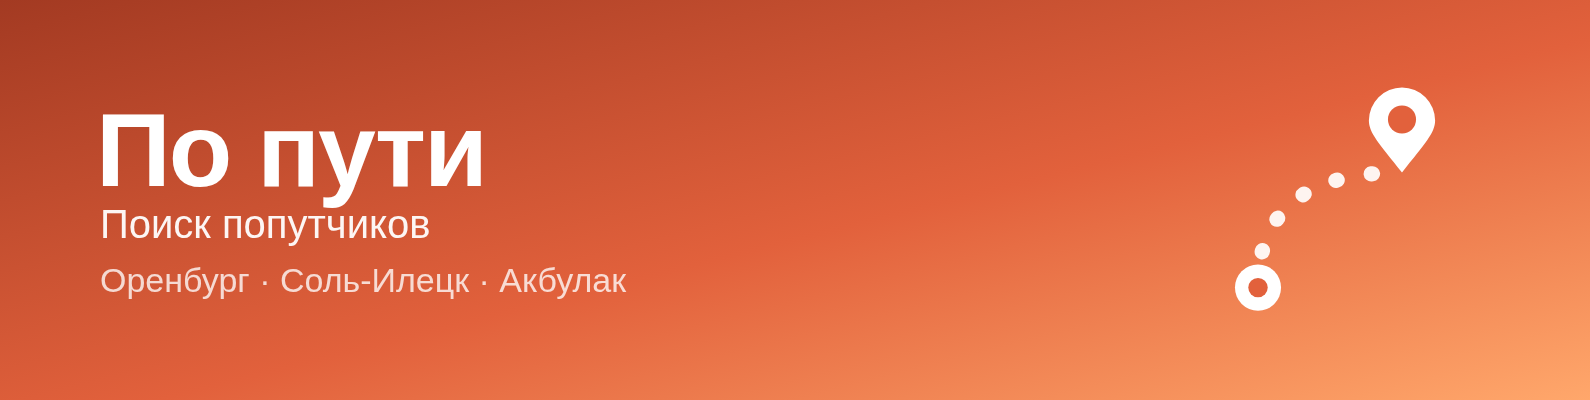
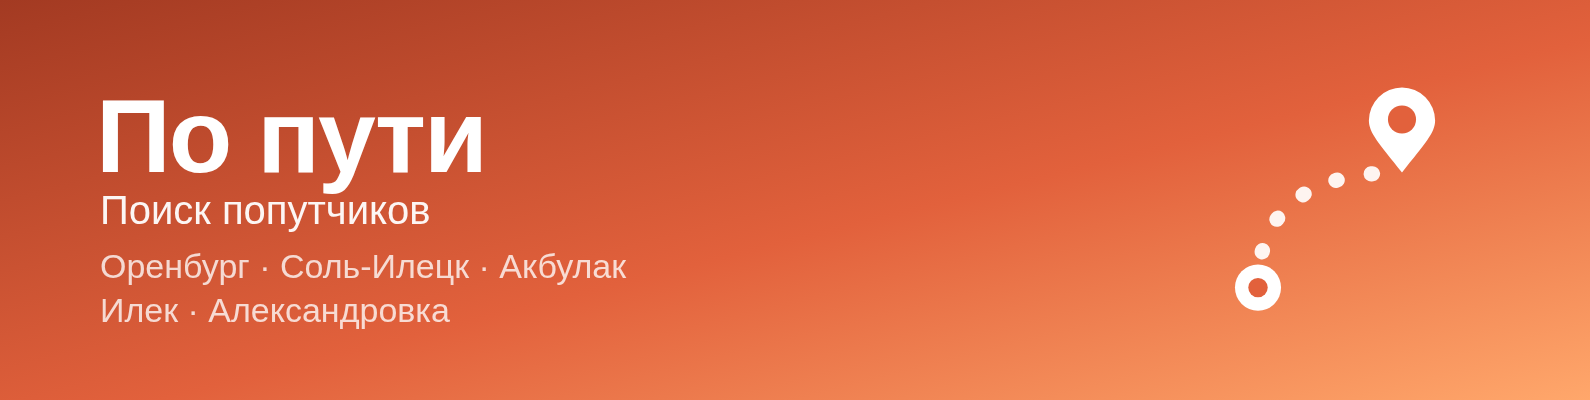
Сниппет и обложка: пять пунктов вместо трёх
На сниппете и на обложке строкой шло «Оренбург · Соль-Илецк · Акбулак».
Карточку и описание уже переписали, а эти две картинки продолжали называть
три пункта из пяти — и видно их чаще, чем описание: сниппет показывается в
ленте, обложка в шапке приложения.

Пять названий в одну строку не помещаются, поэтому список перенесён на две.
Сокращать до «и другие» нельзя: человек из Илека ищет глазами своё
название, а не обобщение.

Заодно появилась строка для картинки бота в Telegram: файл 640×360 в
каталоге был, но нигде не упоминался, и ВЫКАТКА отправляла к сниппету
1120×630 с расчётом, что Telegram обрежет сам. Теперь указан нужный файл, а
в design/README.md записаны три команды пересборки PNG — на случай
следующего изменения состава пунктов.

Описание бота в ВЫКАТКА.md тоже называло три города.

Claude-Session: https://claude.ai/code/session_01RjM5KUjrPyMD97q32CVPv1

Changed region(s): [[0.0616, 0.24, 0.3082, 0.6], [0.0616, 0.63, 0.4006, 0.81]]

diff --git a/design/README.md b/design/README.md
@@ -11,6 +11,7 @@
 | `app-icon-small.svg` · `app-icon-32.png` | упрощённый знак и фавикон: в 32 px пунктир маршрута рассыпается, поэтому для мелких размеров оставлена одна метка |
 | `app-cover.svg` · `app-cover-1590x400.png` | широкая обложка |
 | `app-snippet.svg` · `app-snippet-1120x630.png` | большой сниппет для ленты |
+| `app-tg-640x360.png` | тот же сниппет в 640×360 — картинка бота в Telegram |
 | `store/screen-*.png` | скриншоты 600×1200 для карточки: поиск, поездка глазами гостя, создание, «Мои поездки» |
 | `app-icon-loader.json` · `scripts/build-lottie.py` | анимированная иконка загрузки (Lottie, 96×96) и её генератор |
 | `app-icon-loader-frames.png` | раскадровка анимации — для проверки глазами |
@@ -61,6 +62,17 @@
 читаться как одно приложение. Название вынесено в левую половину —
 площадка может обрезать баннер по краям, и текст не должен попасть под
 обрез.
+
+Список пунктов идёт двумя строками: пять названий в одну не помещаются, а
+сокращать их до «и другие» нельзя — человек ищет глазами своё. Это же
+правило действует для сниппета. Меняется состав `SPOKES` — перерисуйте оба
+и пересоберите PNG:
+
+```
+python3 scripts/render-icon.py design/app-cover.svg design/app-cover-1590x400.png 1590x400
+python3 scripts/render-icon.py design/app-snippet.svg design/app-snippet-1120x630.png 1120x630
+python3 scripts/render-icon.py design/app-snippet.svg design/app-tg-640x360.png 640x360
+```
 
 ## Анимированная иконка
 
